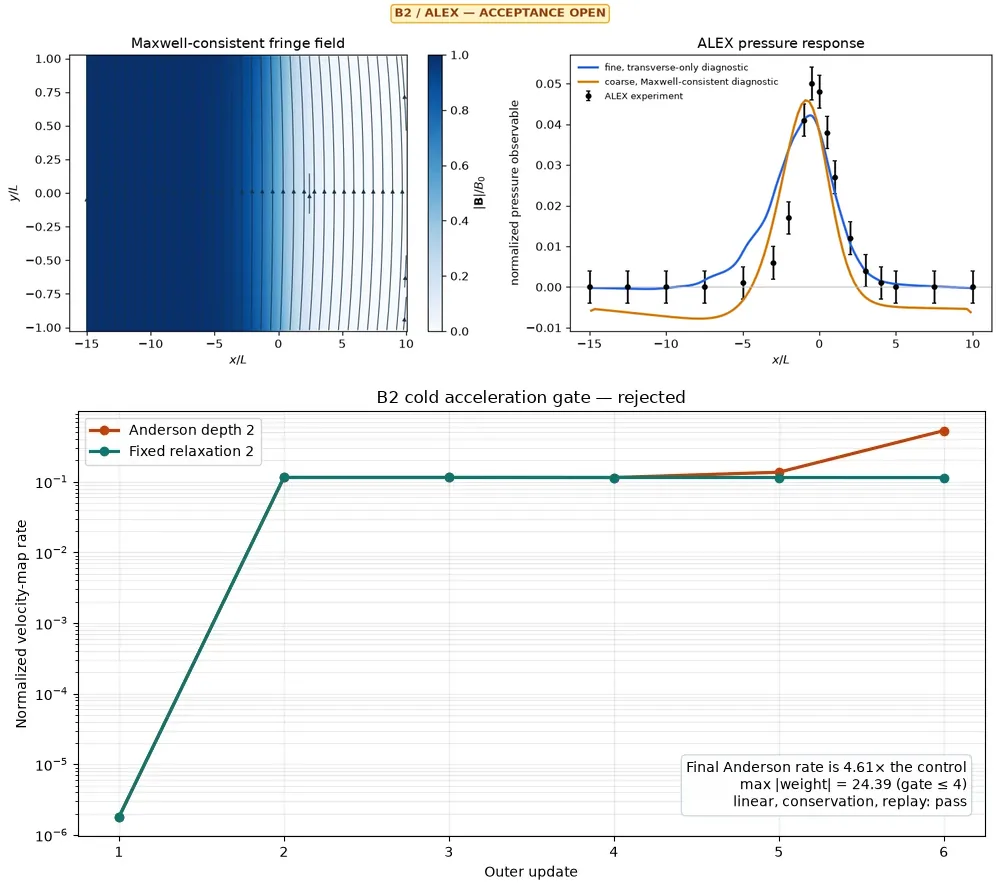
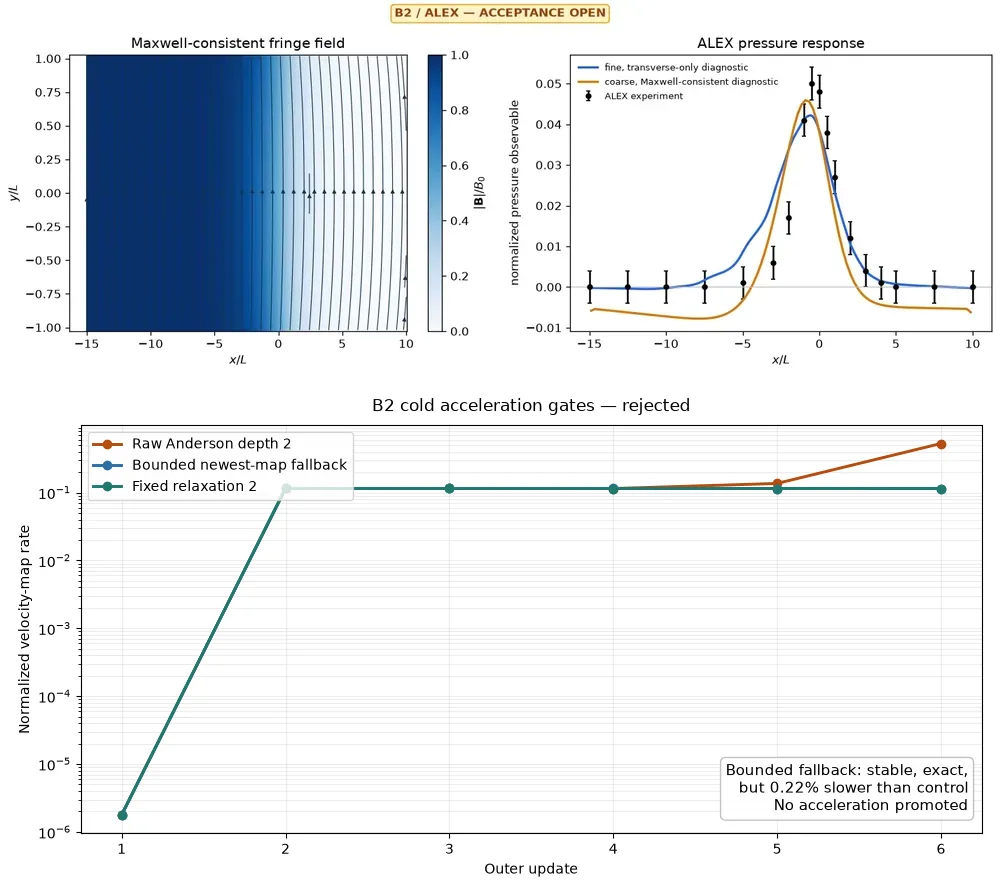
Enforce multi-minute scaling evidence

diff --git a/scripts/run_strong_scaling_worker.py b/scripts/run_strong_scaling_worker.py
@@ -45,6 +45,7 @@ _B2_REPEAT_ATOL = 2.0e-9
 _B2_REPEAT_RTOL = 2.0e-8
 _B2_PROFILE_ITERATION_ATOL = 3
 _B2_SUSTAINED_WARM_SECONDS = 120.0
+_B2_SUSTAINED_WARM_SAMPLES = 3
 _B2_FIELD_NAMES = (
     "u", "v", "w", "p", "phi", "jx", "jy", "jz", "rho_phi_plus", "rho_phi_inlet"
 )
@@ -62,7 +63,7 @@ def _sustained_timing_passed(
 
     samples = np.asarray(warm_samples, dtype=float)
     return bool(
-        samples.size
+        samples.size >= _B2_SUSTAINED_WARM_SAMPLES
         and minimum_warm_seconds >= _B2_SUSTAINED_WARM_SECONDS
         and np.all(samples >= _B2_SUSTAINED_WARM_SECONDS)
     )

diff --git a/tests/test_scaling.py b/tests/test_scaling.py
@@ -340,6 +340,7 @@ def test_matched_scaling_worker_rejects_step_contract_mismatch(tmp_path: Path):
 def test_sustained_scaling_requires_predeclared_multiminute_samples():
     classify = run_strong_scaling_worker._sustained_timing_passed
     assert not classify(0.0, [121.0, 122.0, 123.0])
+    assert not classify(120.0, [120.0, 121.0])
     assert not classify(120.0, [120.0, 119.999, 121.0])
     assert classify(120.0, [120.0, 121.0, 122.0])
 

diff --git a/plan.md b/plan.md
@@ -6,7 +6,10 @@ scaled fields and conservative compact flux. Restart schema 6 stores one raw
 mapped field, residual, plus flux, and inlet flux all-or-none; direct two-update
 and serialized NPZ one-plus-one replay are exact. Its six-update cold outcome
 gate is now rejected, so schema 6 is correctness evidence rather than a
-promoted B2 acceleration choice. Schemas 1--5 remain readable.
+promoted B2 acceleration choice. A separately predeclared `max|weight| <= 4`
+newest-map fallback is also rejected: it is stable and exact but ends 0.22%
+worse than fixed relaxation two, so no SOLVAX or LMX API was added. Schemas
+1--5 remain readable.
 The installable-distribution contract is keyed to `a207bf9`: frozen benchmark
 resources are package-owned, the wheel smoke runs outside the checkout,
 wheel/source membership and size are fail-closed, and the numerical core no
@@ -43,8 +46,9 @@ one/two-A4000 lane also passes 158--259 s duration, numerical, restart, and
 topology gates with 1.626x shared-host speedup, but persistent foreign contexts
 keep authoritative GPU scaling open. The fixed-work harness accepts
 an explicit update count, checkpoints at the deterministic midpoint, replays
-the remaining trajectory, and requires every warm sample to exceed 120 s for a
-sustained claim; the two-update default remains the bounded CI/debug gate. This
+the remaining trajectory, and requires one cold plus at least three warm
+trajectories, with every warm sample lasting at least 120 s, for a sustained
+claim; the two-update default remains the bounded CI/debug gate. This
 single active plan records accepted baselines, active gates, and
 stop/go criteria—not campaign history. Completed campaign details belong in
 checksummed result records and the validation or performance documentation.
@@ -85,8 +89,9 @@ a stop rule, and a go/no-go threshold before launch. Escalate in this order:
 A failed bounded probe stops. It does not trigger an open-ended parameter
 search. Reuse a checksummed accepted record whenever it answers the question.
 Short scaling runs are smoke or calibration only. A CPU or GPU strong-scaling
-claim must predeclare a fixed workload for which every warm sample lasts at
-least 120 seconds; compilation, restart I/O, and observers remain untimed.
+claim must predeclare a fixed workload, run one cold plus at least three warm
+trajectories per rung, and keep every warm trajectory at or above two minutes;
+compilation, restart I/O, and observers remain untimed.
 
 ### Test only what changed
 
@@ -512,6 +517,11 @@ schema-6 Anderson depth two: its final normalized map rate is `0.5281` versus
 reaches 24.39 against the frozen bound of 4. Linear, conservation, identical
 first-update, and exact serialized-replay gates pass, isolating the failure to
 the accelerator rather than the discretization or restart.
+A predeclared SOLVAX-level `max_abs_weight=4` newest-map fallback then bounds
+every applied weight and preserves the same linear, conservation, first-update,
+and exact-replay gates. It ends at `0.114718` versus `0.114466` for fixed
+relaxation two: 0.22% worse instead of the required 15% gain. Reject the API
+addition and do not substitute coefficient safety for acceleration evidence.
 Pre-fix restarts, 128x/256x pseudo-time caps, and extrapolated convergence steps
 are diagnostic only. Exact histories and operator audits are in
 `benchmarks/results/b2-pseudotime-map-rate-20260715.json` and
@@ -531,10 +541,13 @@ The validation sequence is fail-closed:
 2. the six-update `7 x 7 x 7` Anderson-depth-two comparison is complete and
    rejected: final map rate regresses by 361%, `max|weight|=24.39`, and the 15%
    improvement and stable-weight gates fail;
-3. do not tune that rejected configuration. One future acceleration candidate
-   must predeclare its stability mechanism and pass this same cold gate before
-   regenerating both current-source trajectories to the
-   shared step-29 point; do not reinterpret a schema-5 restart;
+3. the one authorized bounded-weight fallback is also rejected: stability and
+   replay pass, but its final rate is 0.22% worse than the control. Do not add
+   that SOLVAX/LMX API or tune either failed configuration. Any future candidate
+   requires a residual-spectrum rationale and predeclared globalization rule,
+   then must pass this same cold gate before regenerating both current-source
+   trajectories to the shared step-29 point; do not reinterpret a schema-5
+   restart;
 4. only if step 29 passes, continue to strict step 96. Promotion requires three
    sustained `tau_map=0.005` passes plus exact replay and the frozen pressure,
    velocity, pressure-gradient, linear, conservation, and sharding limits;
@@ -543,8 +556,8 @@ The validation sequence is fail-closed:
    scaling remain blocked.
 
 This failure stops before step 29 and the coarse run. Fixed relaxation two is
-the control while one bounded stability mechanism is designed; it is not
-evidence that the provisional `5e-5` target is reachable. After the parallel
+the control; the one bounded fallback is rejected and does not establish that
+the provisional `5e-5` target is reachable. After the parallel
 algorithm settles, consolidate
 schema/scaling diagnostics inside existing owners; add no module, script, or
 test file.
@@ -617,7 +630,11 @@ now calls released SOLVAX directly and keeps its separately owned arbitrary-dept
 history.
 
 Released 0.8.4 owns the valuable generic linear solves, preconditioners, and
-Anderson weights. One manual additive composition remains, but migrating its few
+Anderson weights. Its scale-aware regularization, condition filtering, damping,
+and newest-map fallback were re-audited. Condition filtering cannot guarantee
+the frozen coefficient bound, while a proposed generic `max_abs_weight=4`
+fallback passed safety but failed LMX's acceleration outcome gate; therefore
+neither repository gains an unused API. One manual additive composition remains, but migrating its few
 lines could perturb parity trajectories and waits until B2 convergence closes.
 Momentum's single diagonal division remains clearer and smaller than wrapping
 `solvax.jacobi`; ownership movement without code deletion is not a performance

diff --git a/docs/performance.md b/docs/performance.md
@@ -27,7 +27,7 @@ the timing claim remains open because foreign contexts fail the idle gate.
 | CPU-allocation restart audit | existing `101 x 77 x 77` coarse checkpoints | geometry/shape load, but sampled files normalize to `legacy_nonexact` with no source fingerprint or schema-6 Anderson/compact-flux state | unsuitable for exact or promoted current-source scaling evidence |
 | B2 projection audit/fix | Apple M4, warm same-state `7 x 7 x 7` | pre-fix raw cell-update floor `3.69e-3`; corrected predictor-preserving projection removes axial floor | pre-fix trajectories invalid; focused physics/autodiff/restart gates pass |
 | B2 stopping study | Apple M4, schema 5, restart segments to step 96 | `0.05` converges at 30 but fails all QoI limits; `0.005` reaches only `0.01502` | fail closed; accelerate before tighter-reference calibration |
-| B2 acceleration gate | Apple M4, cold `7 x 7 x 7`, six updates | Anderson depth 2 ends at `0.5281` map rate vs `0.1145` for fixed relaxation 2; `max|weight|=24.39`; linear, conservation, and replay pass | rejected before step 29; design one bounded stability mechanism |
+| B2 acceleration gates | Apple M4, cold `7 x 7 x 7`, six updates | raw Anderson ends at `0.5281` with `max|weight|=24.39`; bounded fallback ends at `0.114718` vs `0.114466` control; linear, conservation, and replay pass | both rejected before step 29; no unused fallback API added |
 | B2 fixed relaxation | canonical `min=max=2` | exact trajectory/restart; prior residual omitted | saves 18.46 MiB at `102 x 77 x 77` and two global dot products/update |
 | B2 GPU smoke | 1/2 RTX A4000 GPUs, `8 x 7 x 7` | current schema-6 placement, replay, conservation, linear, and repeat gates pass; two-GPU state error `2.22e-16`, flux exact | topology correctness only; shared-host timing excluded |
 | B2 scaling calibration | Apple M4, `128 x 31 x 31`, 1/2/4 forced CPU devices | 0.857/0.652/0.633 s; 1.31x/1.35x speedup; exact restart and device equivalence pass | historical pre-terminal-fix calibration; rerun before promotion |
@@ -42,7 +42,7 @@ the timing claim remains open because foreign contexts fail the idle gate.
 | B1 large solve | RTX A4000, `21 x 24 x 64` | 270.42 s for two updates | pressure projection is 91.2% of runtime |
 | B1 physical-pilot gate | RTX A4000, `21 x 24 x 64` | 669 iterations for solve plus restart vs 768 fixed ceiling | all four physical projections pass; shared-host wall time is not a speedup claim |
 
-![B2 field, pressure, and rejected Anderson depth-two acceleration gate](_static/readme-alex-b2-field-pressure.webp)
+![B2 field, pressure, and rejected raw and bounded acceleration gates](_static/readme-alex-b2-field-pressure.webp)
 
 The six-update gate is intentionally small: it rejects the accelerator before
 the step-29 trajectory while preserving exact restart and physics diagnostics.
@@ -245,7 +245,9 @@ and `0.10`. A directional comparison to the accepted medium curve changes by
 fingerprints, so this is diagnosis rather than formal acceptance. The released
 SOLVAX Anderson-weight API and bounded schema-6 depth-two field/flux path pass
 CPU and 1/2-GPU topology and exact-replay gates, but the current cold outcome
-gate rejects it for B2 acceleration. Production-mesh FreeMHD,
+gate rejects it for B2 acceleration. The bounded fallback passes safety but
+ends 0.22% worse than fixed relaxation two, so no unused API is added.
+Production-mesh FreeMHD,
 observable/model normalization, fine numerical independence, and experimental
 acceptance remain blocked until the current coarse formulation converges for
 the correct reason.
@@ -331,8 +333,9 @@ python scripts/run_strong_scaling_worker.py --help
 
 The matched-B2 worker keeps two updates as its fast debug/CI default. Such runs
 can verify numerics but are never scaling evidence. A sustained record must
-predeclare a 120-second minimum and every warm trajectory must meet it; direct
-and midpoint-restart paths must still finish identically. The accepted workload
+predeclare a two-minute minimum, run one cold plus at least three warm
+trajectories per rung, and require every warm trajectory to meet it; direct and
+midpoint-restart paths must still finish identically. The accepted workload
 uses 32 CPU updates and 96 GPU updates:
 
 ```bash
@@ -376,7 +379,8 @@ pass the same gates.
 A publishable strong-scaling record contains:
 
 - fixed global grid, physics, tolerance, precision, and update count;
-- a predeclared 120-second minimum met by every warm trajectory;
+- one cold plus at least three warm trajectories per rung, with a predeclared
+  two-minute minimum met by every warm trajectory;
 - backend, device model, device count, JAX version, and source fingerprint;
 - cold time, warm time, throughput, speedup, and parallel efficiency;
 - compilation separated from repeated execution;
@@ -419,9 +423,10 @@ than silently reused.
 ## Next performance work
 
 1. Repeat the passing 96-update one/two-GPU lane after the host passes the idle gate.
-2. Design one bounded acceleration stability mechanism; do not tune the rejected
-   depth-two configuration.
-3. Reapply the six-update cold gate; only a pass can authorize step 29 and 96.
+2. Audit the B2 residual spectrum before proposing another accelerator; do not
+   tune either rejected depth-two mechanism.
+3. Predeclare one globalization rule and reapply the six-update cold gate; only
+   a pass can authorize step 29 and 96.
 4. Close canonical coarse/medium/fine and experimental-observable acceptance.
 
 See [Testing](testing.md) for the portable gate and [Benchmark matrix](benchmark_matrix.md)

diff --git a/docs/media.md b/docs/media.md
@@ -39,7 +39,7 @@ serve one claim family.
 
 ## Tracked web set
 
-Twenty files in `docs/_static/` total 1,246,402 bytes. The `showcase` section of
+Twenty files in `docs/_static/` total 1,246,806 bytes. The `showcase` section of
 [`release-assets.json`](release-assets.json) records every byte count and
 SHA-256; `python scripts/manage_release_assets.py --check` verifies it locally.
 
@@ -62,7 +62,7 @@ SHA-256; `python scripts/manage_release_assets.py --check` verifies it locally.
 | magnetic obstacle | 48,630 | compressed WebP | released derivative `6e351e80...` |
 | blanket-flow loop | 61,776 | 480 × 222 animated WebP, 7 s | Python/Pillow derivative of released GIF `1a23d23...`; 42 frames |
 | Q2D loop | 117,102 | 440 × 381 animated WebP, 7 s | Python/Pillow derivative of released GIF `feb9e145...`; 42 frames |
-| B2 field, pressure, and acceleration | 46,284 | 1,000 × 895 WebP | released field/pressure source plus current cold gate; Anderson rejected before step 29 |
+| B2 field, pressure, and acceleration | 46,688 | 1,000 × 895 WebP | released field/pressure source plus raw and bounded cold gates; both rejected before step 29 |
 | curved-pipe validation | 94,236 | compressed WebP | released derivative `d32d666a...` |
 | blanket current and pressure | 89,356 | 1,476 × 1,573 WebP | released sources `48f4ba58...` and `4be86176...`; research-stage |
 
@@ -90,7 +90,7 @@ does not depend on release authentication.
[8 lines of base64/hex data omitted]

diff --git a/docs/validation_report.md b/docs/validation_report.md
@@ -73,7 +73,9 @@ current-closure, and power-closure gates; no solver was rerun for presentation.
   parity or steady scaling. The current schema-6 depth-two Anderson path also
   fails its six-update cold outcome gate (`0.5281` versus `0.1145` fixed-control
   map rate; `max|weight|=24.39`), despite exact replay and green linear and
-  conservation gates. Step 29 is therefore blocked. The first fresh current-formulation coarse
+  conservation gates. Its predeclared bounded newest-map fallback is stable
+  but ends 0.22% worse than the control, so that API is also rejected. Step 29
+  is therefore blocked. The first fresh current-formulation coarse
   trajectory and one exact continuation pass conservation and all 256 pressure
   solves, but stop at step 256 with residual `7.1081e-4`, above both its
   precommitted continuation gate and the `5e-5` steady criterion. It is not

diff --git a/docs/numerics.md b/docs/numerics.md
@@ -90,7 +90,9 @@ The default coupling remains unaccelerated for backward compatibility. Set
 SOLVAX accelerator. The compatible SOLVAX scalar Aitken update is useful for a
 single dominant slow mode. Bounded-memory Anderson mixing is available, but
 the current depth-two B2 configuration fails its six-update cold outcome gate
-and is not a promoted production choice. LMX checks the
+and is not a promoted production choice. A bounded newest-map fallback also
+fails the required acceleration gain despite stable coefficients and exact
+replay, so it is not exposed as an unused option. LMX checks the
 **unaccelerated** residual `max(abs(G(u)-u))` and the change across outer steady
 states, so neither relaxation nor a converged inner subsystem can manufacture
 a false steady pass. Tolerance-controlled potential CG reuses the previous

diff --git a/docs/fringing.md b/docs/fringing.md
@@ -144,6 +144,13 @@ doubled-iteration and wall confirmations pass; its tighter-tolerance variant
 remains open. These are solver and numerical results, not experimental
 validation.
 
+The raw depth-two B2 Anderson path is not promoted: its six-update cold rate
+ends 4.61 times above fixed relaxation two and its largest coefficient is
+24.39. A separately predeclared newest-map fallback bounds all applied
+coefficients and preserves linear, conservation, and exact-replay gates, but
+ends 0.22% slower than the control. It is rejected without adding a SOLVAX or
+LMX option.
+
 The ALEX normalization and pressure-orientation audit passes: B2 compares the
 side and top walls at the same axial station using the sourced 4.39 cm
 half-width. Pressure-hole transfer remains open because the available reports

diff --git a/docs/benchmark_matrix.md b/docs/benchmark_matrix.md
@@ -108,7 +108,9 @@ three frozen ALEX literature limits (weighted RMS `1.389`, weighted maximum
 `4.218`, integrated error `0.251`). Fine numerical independence remains open.
 The tiny matched-FreeMHD smoke is complete. The schema-6 depth-two Anderson
 field/flux path passes topology and replay but fails its cold outcome gate:
-final map rate regresses 361% versus fixed relaxation two. Step 29,
+final map rate regresses 361% versus fixed relaxation two. A predeclared bounded
+fallback is stable but ends 0.22% worse than the control, so it is also rejected
+without an API addition. Step 29,
 production-mesh FreeMHD, and observable/model normalization remain blocked.
 
 After all three source-identical mesh campaigns finish, assemble (without
